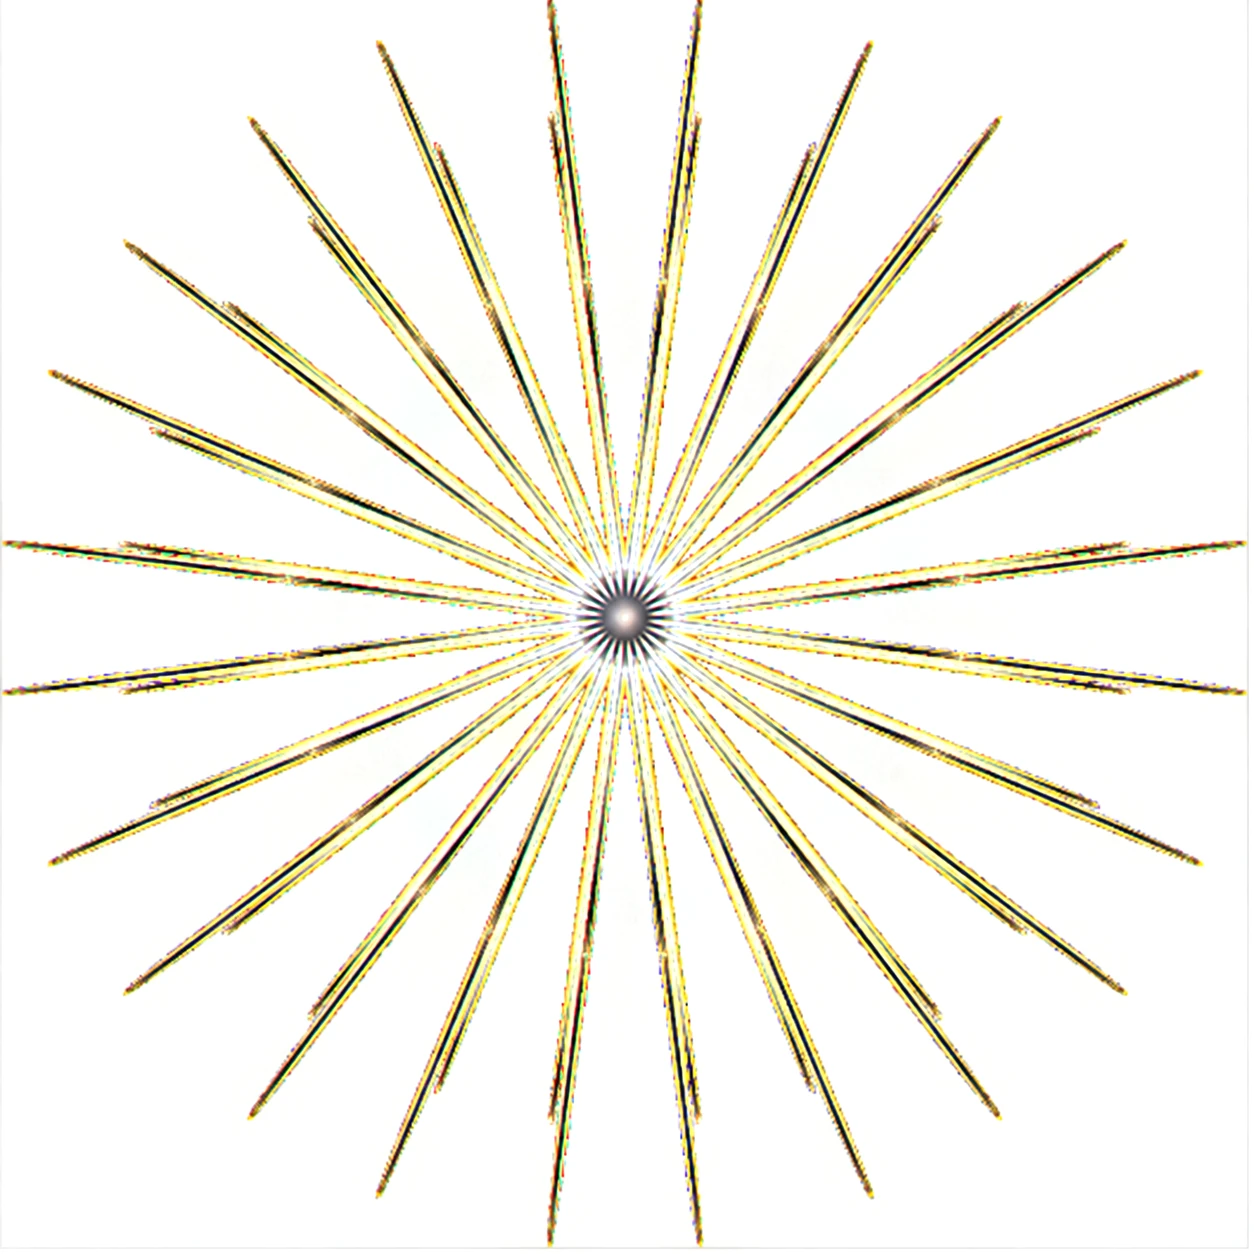
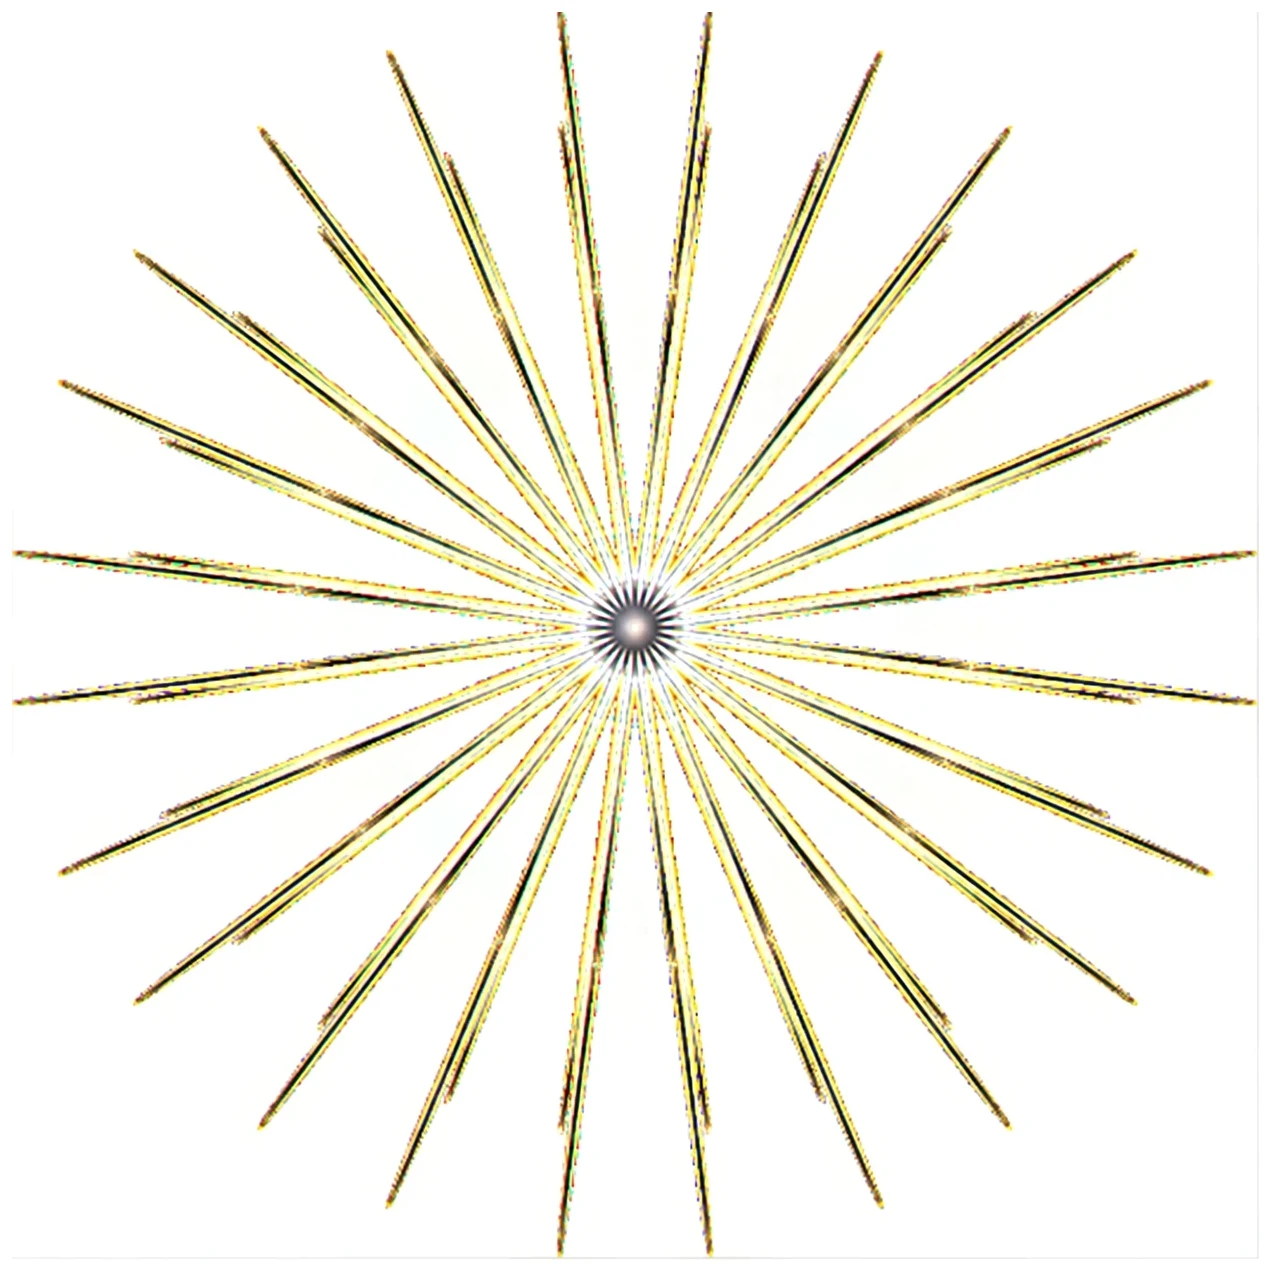
Make the multiply blend deterministic so the images stop showing as boxes
The reveal animation leaves a transform on .hero__art, which creates an
isolated blend group. mix-blend-mode blends against the nearest such group,
so with a transparent background the multiply had nothing to blend against
and the white-paper artwork rendered as a white rectangle on the cream page.

Isolate deliberately and paint --paper under each blended image, so the
backdrop is correct no matter what an ancestor's transform, filter, or
opacity does later. --paper stays the single source of truth for the colour.

Also pad the thumbnail with a white margin: the downscale kernel was reaching
past the artwork edge and leaving a 1px seam along the bottom and right.

Verified in Chromium with the reveal animations triggered: the rendered seam
delta is 0/255 on all four edges of both images.

diff --git a/css/site.css b/css/site.css
@@ -118,12 +118,19 @@ h1 {
   text-transform: lowercase;
 }
 
-/* The artwork's paper is pure white, so multiply leaves the page colour exactly
-   as it is. No plate, glow, or feathered edge is needed to hide a seam. */
+/* The artwork's paper is pure white, so multiplying it against --paper returns
+   --paper exactly and the image has no visible edge.
+   isolation + background are load-bearing: mix-blend-mode blends against the
+   nearest isolated group, and the reveal animation leaves a transform here,
+   which silently creates one. Isolating deliberately and painting --paper
+   underneath means the blend cannot be broken by an ancestor's transform,
+   filter, or opacity. */
 .hero__art {
   justify-self: stretch;
   align-self: center;
   margin: 0;
+  background: var(--paper);
+  isolation: isolate;
 }
 
 .hero__art img {
@@ -199,6 +206,8 @@ h2 {
 
 .project__media {
   margin: 0;
+  background: var(--paper);
+  isolation: isolate;
 }
 
 .project__media img {

diff --git a/index.html b/index.html
@@ -61,8 +61,8 @@
               <img
                 src="assets/rise_flor.webp"
                 alt="RISE floral starburst thumbnail"
-                width="1254"
-                height="1254"
+                width="1274"
+                height="1274"
                 loading="lazy"
                 decoding="async"
               >
